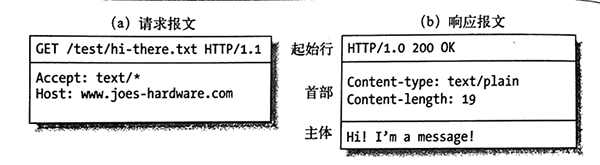
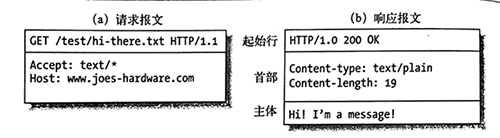
调整web前端图片大小

diff --git a/_posts/2016-08-28-Questions.md b/_posts/2016-08-28-Questions.md
@@ -728,7 +728,7 @@ Almost Standards （近似标准）模式（Mozilla/Netscape 6新增的一种模
 
 下面是一个假想的请求和响应报文：
 
-![HTTP报文](http://pwnny.cn/assets/images/webfront/HTTPMessage.JPG)  
+![HTTP报文](http://pwnny.cn/assets/images/webfront/HTTPMessage.PNG)  
 
  <span id="httpAbout04"></span>
 
